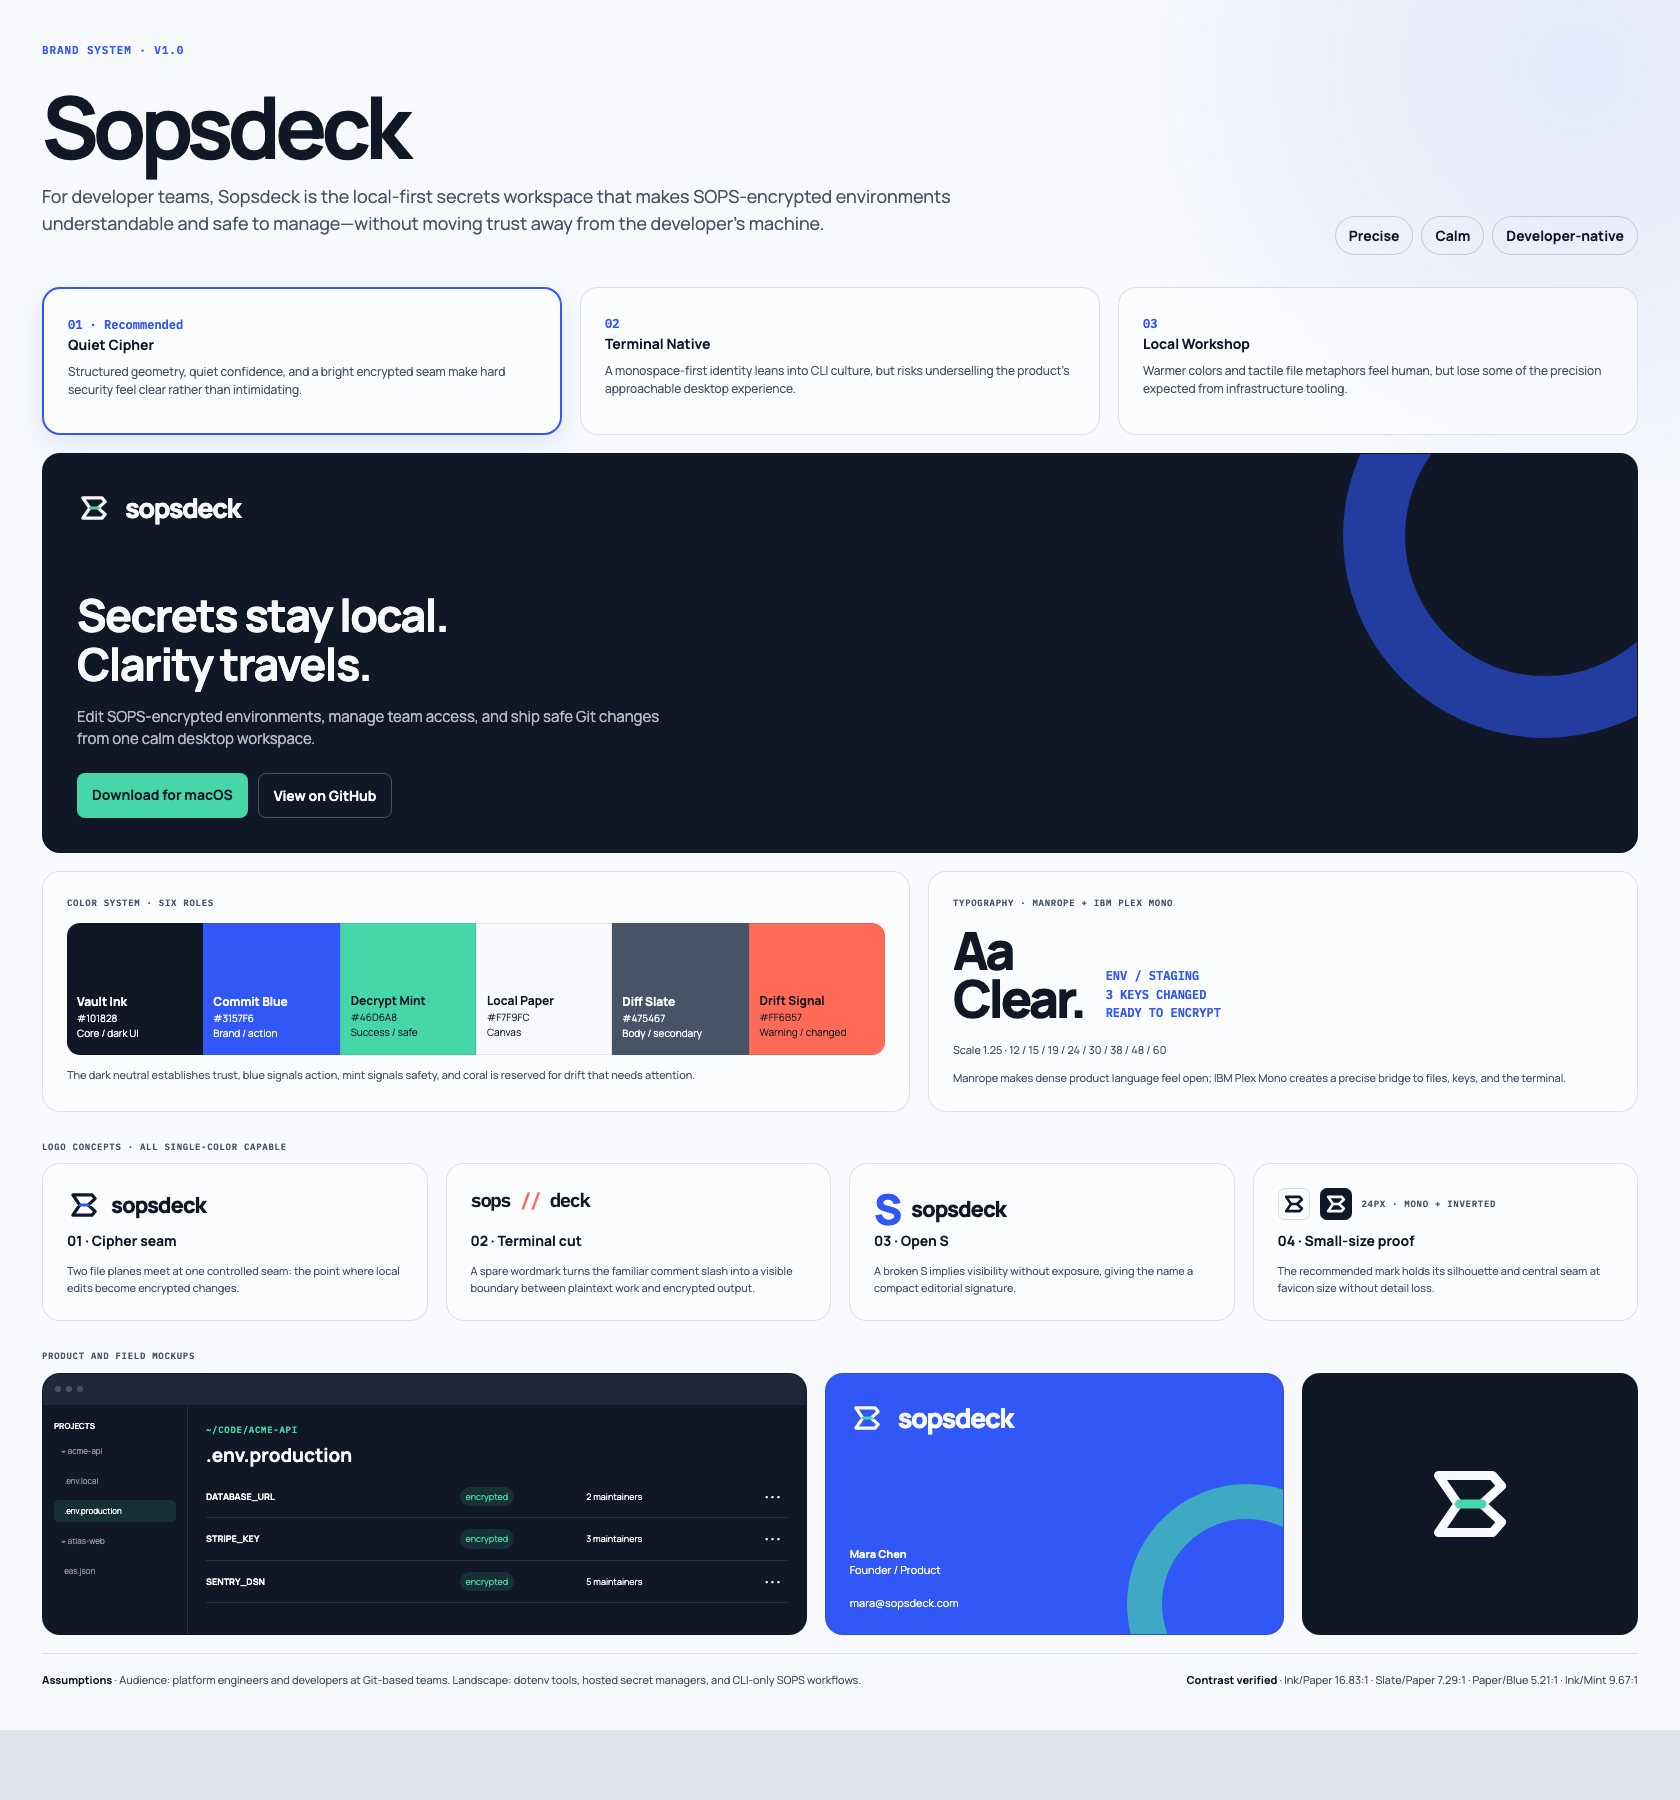
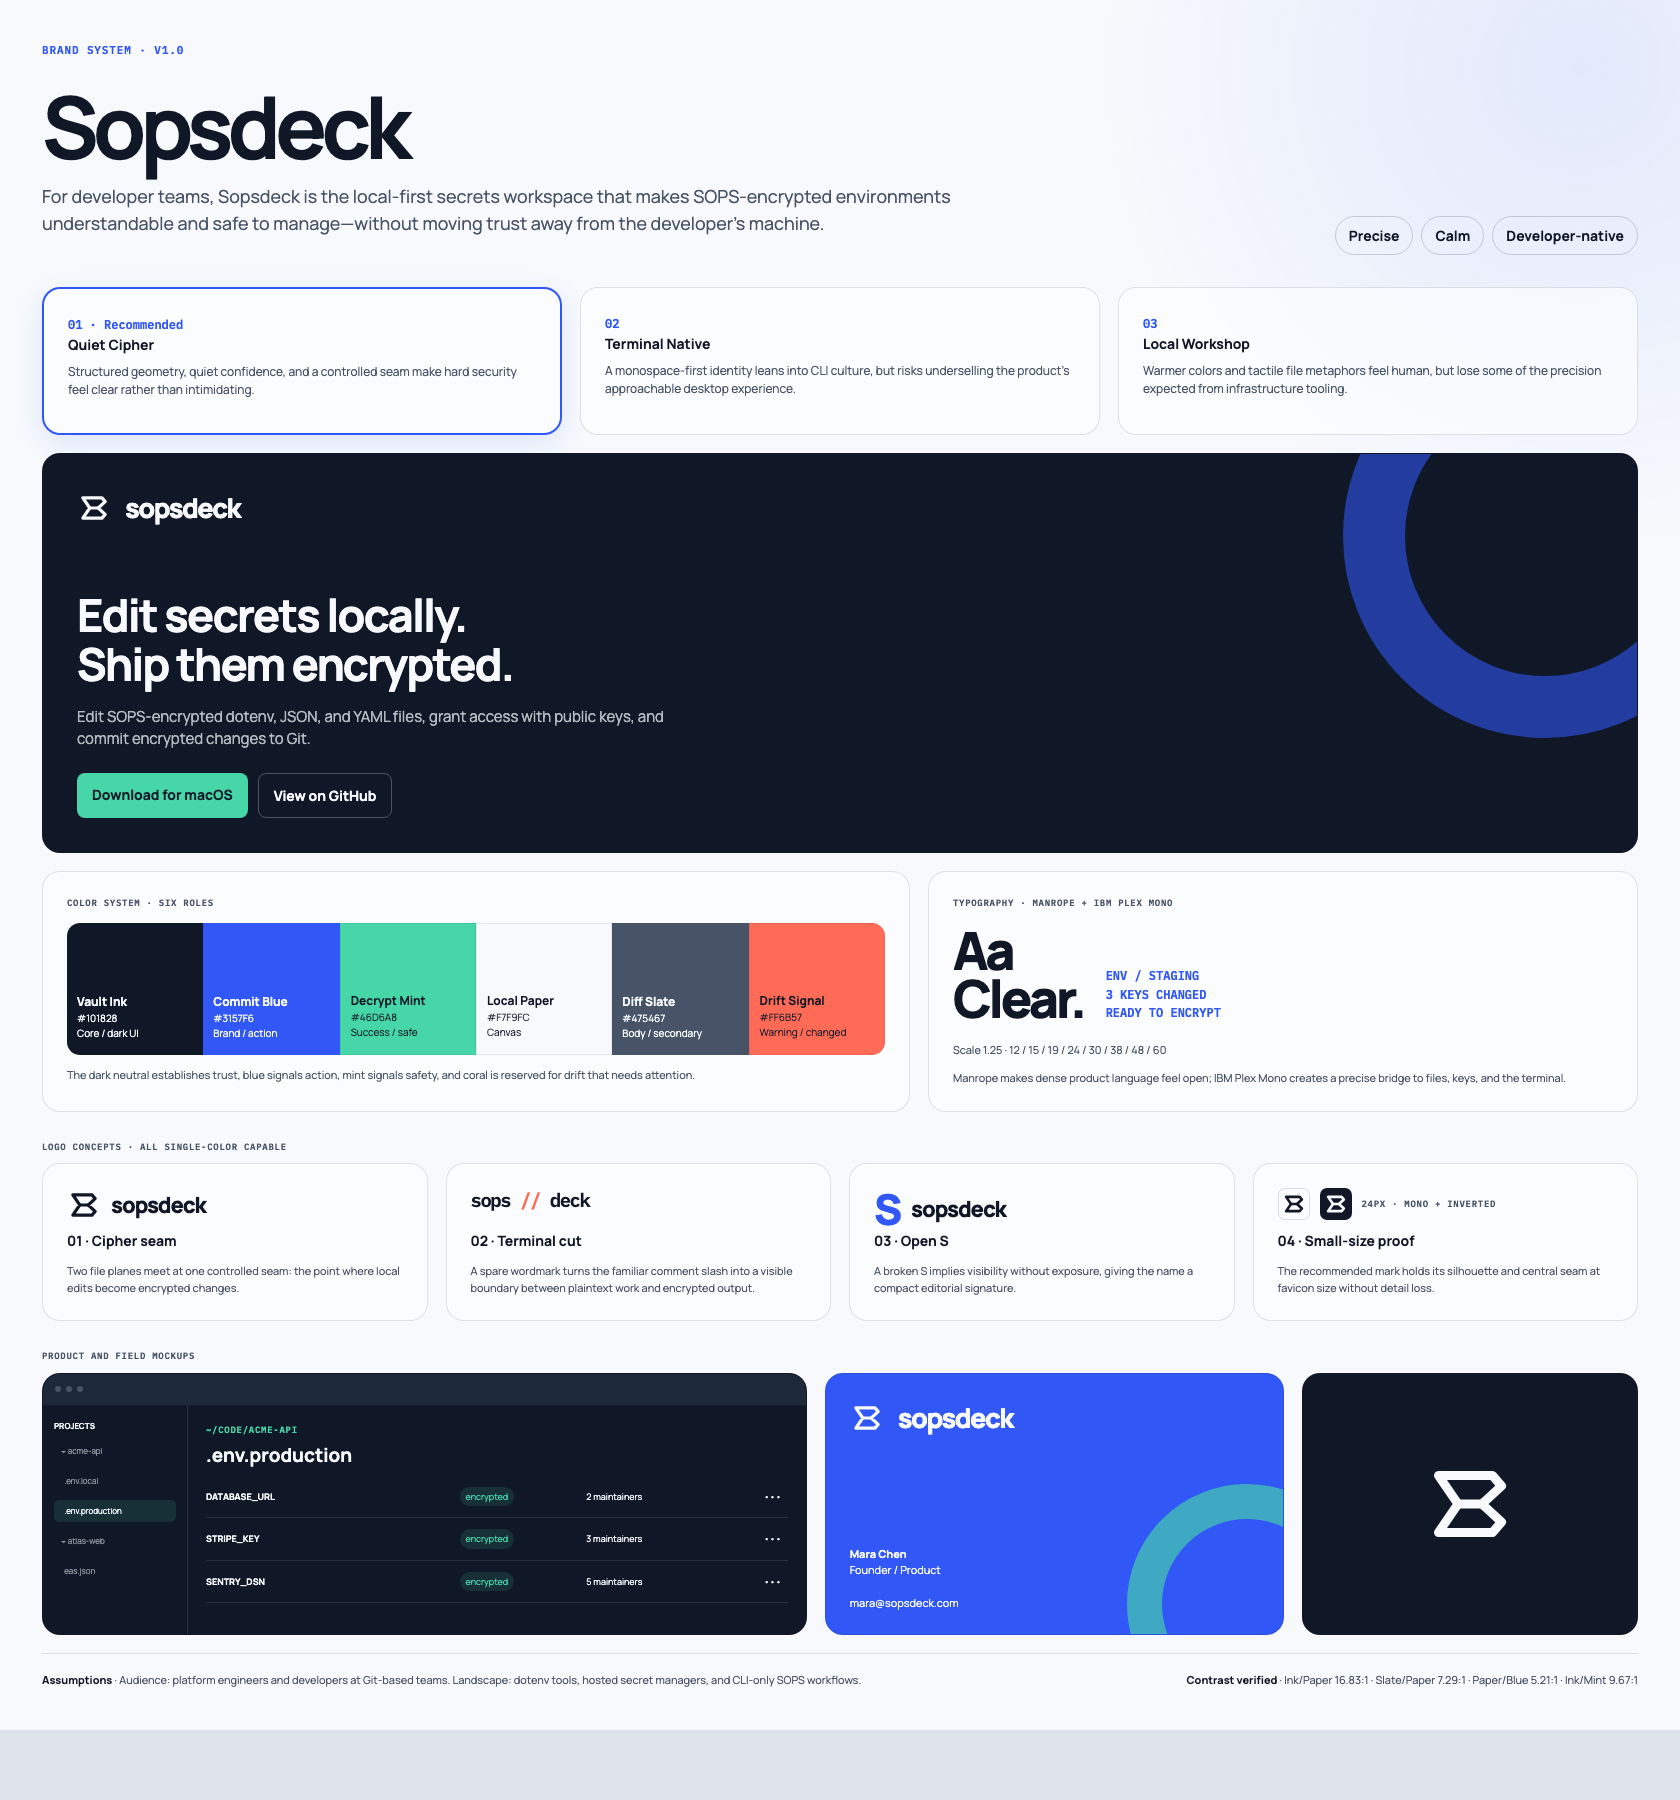
docs(brand): align concept references

Changed region(s): [[0.031, 0.3111, 0.3714, 0.4356], [0.8667, 0.8089, 0.8976, 0.84]]

diff --git a/brand-board.html b/brand-board.html
@@ -143,7 +143,7 @@
       <article class="panel direction recommended">
         <span class="direction-number">01 · Recommended</span>
         <h3>Quiet Cipher</h3>
-        <p>Structured geometry, quiet confidence, and a bright encrypted seam make hard security feel clear rather than intimidating.</p>
+        <p>Structured geometry, quiet confidence, and a controlled seam make hard security feel clear rather than intimidating.</p>
       </article>
       <article class="panel direction">
         <span class="direction-number">02</span>
@@ -161,13 +161,13 @@
       <div class="logo">
         <svg class="mark" viewBox="0 0 64 64" role="img" aria-label="Sopsdeck mark">
           <path d="M11 13h36l6 7-13 12 13 12-6 7H11l13-19L11 13Z" fill="none" stroke="currentColor" stroke-width="6" stroke-linejoin="round"/>
-          <path d="M25 32h15" stroke="#46D6A8" stroke-width="6" stroke-linecap="round"/>
+          <path d="M25 32h15" stroke="currentColor" stroke-width="6" stroke-linecap="round"/>
         </svg>
         <span>sopsdeck</span>
       </div>
       <div class="hero-copy">
-        <h2>Secrets stay local.<br>Clarity travels.</h2>
-        <p>Edit SOPS-encrypted environments, manage team access, and ship safe Git changes from one calm desktop workspace.</p>
+        <h2>Edit secrets locally.<br>Ship them encrypted.</h2>
+        <p>Edit SOPS-encrypted dotenv, JSON, and YAML files, grant access with public keys, and commit encrypted changes to Git.</p>
         <div class="hero-actions"><span class="button primary">Download for macOS</span><span class="button ghost">View on GitHub</span></div>
       </div>
     </section>
@@ -201,7 +201,7 @@
       <div class="grid logos">
         <article class="panel logo-card">
           <div class="concept">
-            <svg class="mark" viewBox="0 0 64 64" aria-hidden="true"><path d="M11 13h36l6 7-13 12 13 12-6 7H11l13-19L11 13Z" fill="none" stroke="currentColor" stroke-width="6" stroke-linejoin="round"/><path d="M25 32h15" stroke="#3157F6" stroke-width="6" stroke-linecap="round"/></svg>
+            <svg class="mark" viewBox="0 0 64 64" aria-hidden="true"><path d="M11 13h36l6 7-13 12 13 12-6 7H11l13-19L11 13Z" fill="none" stroke="currentColor" stroke-width="6" stroke-linejoin="round"/><path d="M25 32h15" stroke="currentColor" stroke-width="6" stroke-linecap="round"/></svg>
             sopsdeck
           </div>
           <div><strong>01 · Cipher seam</strong><p class="rationale">Two file planes meet at one controlled seam: the point where local edits become encrypted changes.</p></div>
@@ -236,10 +236,10 @@
           </div>
         </article>
         <article class="panel card-mock">
-          <div class="logo"><svg class="mark" viewBox="0 0 64 64"><path d="M11 13h36l6 7-13 12 13 12-6 7H11l13-19L11 13Z" fill="none" stroke="currentColor" stroke-width="6" stroke-linejoin="round"/><path d="M25 32h15" stroke="#46D6A8" stroke-width="6" stroke-linecap="round"/></svg>sopsdeck</div>
+          <div class="logo"><svg class="mark" viewBox="0 0 64 64"><path d="M11 13h36l6 7-13 12 13 12-6 7H11l13-19L11 13Z" fill="none" stroke="currentColor" stroke-width="6" stroke-linejoin="round"/><path d="M25 32h15" stroke="currentColor" stroke-width="6" stroke-linecap="round"/></svg>sopsdeck</div>
           <div class="card-bottom"><strong>Mara Chen</strong><br>Founder / Product<br><br>mara@sopsdeck.com</div>
         </article>
-        <article class="panel avatar"><svg class="mark" viewBox="0 0 64 64"><path d="M11 13h36l6 7-13 12 13 12-6 7H11l13-19L11 13Z" fill="none" stroke="#F7F9FC" stroke-width="6" stroke-linejoin="round"/><path d="M25 32h15" stroke="#46D6A8" stroke-width="6" stroke-linecap="round"/></svg></article>
+        <article class="panel avatar"><svg class="mark" viewBox="0 0 64 64"><path d="M11 13h36l6 7-13 12 13 12-6 7H11l13-19L11 13Z" fill="none" stroke="#F7F9FC" stroke-width="6" stroke-linejoin="round"/><path d="M25 32h15" stroke="#F7F9FC" stroke-width="6" stroke-linecap="round"/></svg></article>
       </div>
     </section>
 

diff --git a/sopsdeck-ui-concept.html b/sopsdeck-ui-concept.html
@@ -96,7 +96,7 @@
     <symbol id="dots" viewBox="0 0 24 24"><circle cx="5" cy="12" r="1" fill="currentColor" stroke="none"/><circle cx="12" cy="12" r="1" fill="currentColor" stroke="none"/><circle cx="19" cy="12" r="1" fill="currentColor" stroke="none"/></symbol>
   </svg>
   <main class="app">
-    <header class="titlebar"><div class="traffic"><i></i><i></i><i></i></div><div class="app-name"><svg class="app-mark" viewBox="0 0 64 64"><path d="M11 13h36l6 7-13 12 13 12-6 7H11l13-19L11 13Z"/><path d="M25 32h15" stroke="#46D6A8" stroke-width="5"/></svg>sopsdeck</div><span class="shortcut">⌘ K</span></header>
+    <header class="titlebar"><div class="traffic"><i></i><i></i><i></i></div><div class="app-name"><svg class="app-mark" viewBox="0 0 64 64"><path d="M11 13h36l6 7-13 12 13 12-6 7H11l13-19L11 13Z"/><path d="M25 32h15" stroke="currentColor" stroke-width="5"/></svg>sopsdeck</div><span class="shortcut">⌘ K</span></header>
     <div class="shell">
       <aside class="sidebar">
         <div class="side-head"><div class="side-head-row"><span class="kicker">Projects</span><button class="icon-button" aria-label="Add project"><svg><use href="#plus"/></svg></button></div><label class="search"><svg><use href="#search"/></svg><input aria-label="Find project or configuration file" placeholder="Find project or config"></label></div>
